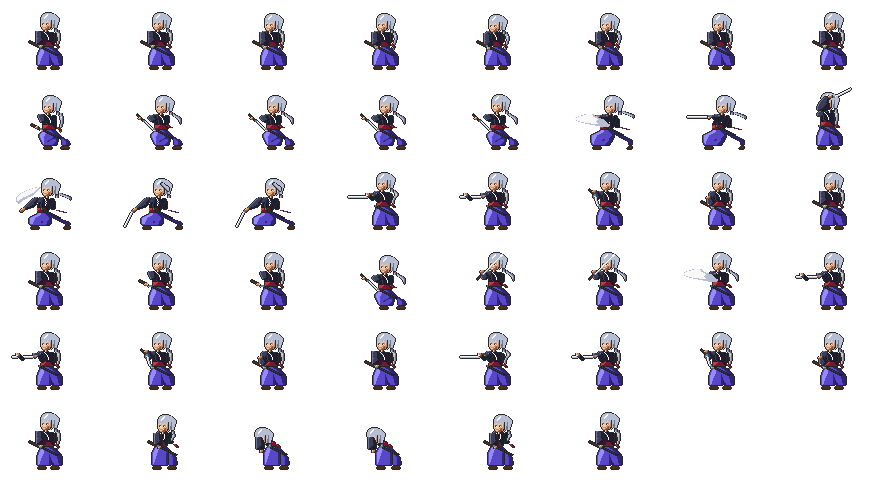
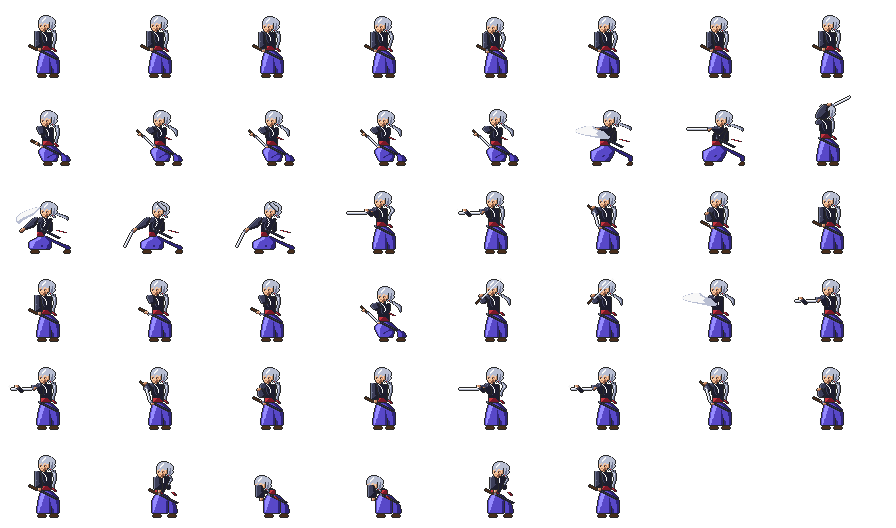
Samurai: slimmer and taller (~65 px) at-rest parts — smaller head, long narrow torso, slim sleeve, long even hakama; dot eyes
Claude-Session: https://claude.ai/code/session_0156S23pwVB8PAo3CNfbv2Nz

diff --git a/tools/hand/samurai/parts.py b/tools/hand/samurai/parts.py
@@ -19,27 +19,24 @@ def _check(part, name):
 # ---------------------------------------------------------------- HEAD (20 wide, 20 tall)
 # 3/4 face: nose at the left edge, near eye 'oH', far eye 'oH', brows 'z', bangs in three points,
 # long side lock in front of the ear. The neck base is at local (5,19); the hair tie at (15,17).
-HEAD = _check([
-    "?????ooooooo????????",
-    "???oohhhhhhhoo??????",
-    "??ohhhhHhhhhhhho????",
-    "?ohhhhHHhhhhhhhho???",
-    "?ohhhHHhhhhhhhhhho??",
-    "ohhhHHhhhhhhhhhhhho?",
-    "ohhhHhhhhhhhhhhhhhho",
-    "ohhhhhhhhhhhhhhhhhho",
-    "ohhhhhhhhhhohhghhhho",
-    "ohhShhhShhhohhghhhho",
-    "oSShhSShhSsohhghhho?",
-    "oSzzhSzzsSsohhghhho?",
-    "oSoHSSoHsSsohgghhho?",
-    "oSSSSSSsSssohgghho??",
-    "oSsSSSsszssohgghho??",
-    "?oSsssSzzsoohgghho??",
-    "?osSSszzzsoho?oooo??",
-    "??osszzzooho??oRgo??",
-    "???ooSzo?o????ohgo??",
-    "???ooSzo??????ohgo??",
+HEAD = _check([                 # 18 wide x 17 tall. neck base at local (5,16); hair tie at (13,14)
+    "?????oooooo???????",
+    "???oohhhhhhoo?????",
+    "??ohhhhHhhhhhho???",
+    "?ohhhhHHhhhhhhho??",
+    "?ohhhHHhhhhhhhhho?",
+    "ohhhHHhhhhhhhhhhho",
+    "ohhhHhhhhhhhhhhhho",
+    "ohhhhhhhhhhohhghho",
+    "ohhShhSShhhohhghho",
+    "oSShhSShSSsohhgho?",
+    "oSzzhSzzsSsohgghho",
+    "oSoSSSoSsSsohgghho",
+    "oSSSSSssSssohggho?",
+    "?oSssSzzsoohggho??",
+    "?osSSzzzsohoRgo???",
+    "??osszzoooooohgo??",
+    "???ooSzo?????ogo??",
 ], "HEAD")
 HEAD_DOWN = HEAD
 
@@ -157,78 +154,90 @@ TAIL_SETTLE = _check([          # after the cut: the tail falls back to hanging,
 
 # ---------------------------------------------------------------- TORSO (19 wide, 16 tall)
 # shoulders on row 0, the neck 's' at x 9, the lapel 'H' crossing, obi (sash) rows 11-14 with its knot
-TORSO = _check([
-    "??oggccHks?oo??????",
-    "?ogcccckHkkkk?oooo?",
-    "ogccccckkHkkkkkkkko",
-    "ogccccckkkHkkkkkkko",
-    "ogcccckckkkHkkkkkko",
-    "?ooockkckkkHkkkkkko",
-    "????okkckkkkHkkkkko",
-    "????okkckkkkHkkkkko",
-    "????okkckkkkHkkkkko",
-    "????okkkckkkkkkkkko",
-    "????okkkkckkkkkkkko",
-    "????oRRRRRrrrrkkkko",
-    "????oRRRRrrrrrrkkko",
-    "????oRRRrrrrrrrrkko",
-    "????oRrrrrrrrrrrrko",
-    "?????oooooooooooooo",
+TORSO = _check([               # 17 wide x 20 tall: narrow shoulders, long waist; the neck 's' at x 8; obi rows 15-18
+    "??oggcHks?oo?????",
+    "?ogccckHkkkk?ooo?",
+    "ogccccckHkkkkkkko",
+    "ogccccckkHkkkkkko",
+    "ogcccckckkHkkkkko",
+    "?ooockkckkHkkkkko",
+    "????okkckkkHkkkko",
+    "????okkckkkHkkkko",
+    "????okkckkkHkkkko",
+    "????okkkckkHkkkko",
+    "????okkkckkkkkkko",
+    "????okkkkckkkkkko",
+    "?????okkkkkkkkkko",
+    "?????okkkkkkkkkko",
+    "?????okkkkkkkkkko",
+    "?????oRRRRrrrkkko",
+    "?????oRRRrrrrrkko",
+    "?????oRRrrrrrrrko",
+    "?????oRrrrrrrrrro",
+    "??????ooooooooooo",
 ], "TORSO")
 # far sleeve, hanging behind the torso (stamped first)
 FAR_SLEEVE = _check([
-    "?ookkko??",
-    "?okkkkko?",
-    "?okkkkkko",
-    "??okkkkko",
-    "??okkkkko",
-    "??okkkkko",
-    "??okkkkko",
-    "??okkkkko",
-    "???okkkko",
-    "???okkkko",
-    "????oooo?",
+    "?ookko??",
+    "?okkkko?",
+    "?okkkkko",
+    "??okkkko",
+    "??okkkko",
+    "??okkkko",
+    "??okkkko",
+    "??okkkko",
+    "??okkkko",
+    "??okkkko",
+    "???okkko",
+    "???okkko",
+    "????ooo?",
 ], "FAR_SLEEVE")
 
 # ---------------------------------------------------------------- NEAR ARM variants
 # origin = the near shoulder (top-left of the sleeve), i.e. torso local (-1, 0)
-ARM_REST = _check([             # hanging; the hand comes out of the bell sleeve at the hilt
-    "oggccko????",
-    "ogccccko???",
-    "ogccccko???",
-    "ogcccckko??",
-    "ogcccckko??",
-    "ogcccckko??",
-    "ogcccckkko?",
-    "oggccckkko?",
-    "ogccccckkko",
-    "ogcccckkkko",
-    "ogccckkkkko",
-    "ogcckkkkkko",
-    "ogkkkkkkkko",
-    "ooooookkooo",
-    "????oSsso??",
-    "????oSszo??",
-    "????ozzo???",
+ARM_REST = _check([             # a slim hanging sleeve, bell at the wrist, the hand at the hilt
+    "oggcko???",
+    "ogcccko??",
+    "ogcccko??",
+    "ogcccko??",
+    "ogccckko?",
+    "ogccckko?",
+    "ogccckko?",
+    "ogccckko?",
+    "ogccckko?",
+    "oggcckko?",
+    "ogccckkko",
+    "ogccckkko",
+    "ogcccckko",
+    "ogccckkko",
+    "ogcckkkko",
+    "ogkkkkkko",
+    "ooookkooo",
+    "???oSsso?",
+    "???oSszo?",
+    "???ozzo??",
 ], "ARM_REST")
-ARM_REST_SWING = _check([       # idle: the sleeve swings a pixel forward
-    "oggccko????",
-    "ogccccko???",
-    "ogccccko???",
-    "ogcccckko??",
-    "ogcccckko??",
-    "ogcccckko??",
-    "ogcccckkko?",
-    "oggccckkko?",
-    "ogccccckkko",
-    "ogcccckkkko",
-    "ogccckkkkko",
-    "ogcckkkkkko",
-    "ogkkkkkkko?",
-    "oooookkooo?",
-    "???oSsso???",
-    "???oSszo???",
-    "???ozzo????",
+ARM_REST_SWING = _check([
+    "oggcko???",
+    "ogcccko??",
+    "ogcccko??",
+    "ogcccko??",
+    "ogccckko?",
+    "ogccckko?",
+    "ogccckko?",
+    "ogccckko?",
+    "ogccckko?",
+    "oggcckko?",
+    "ogccckkko",
+    "ogccckkko",
+    "ogcccckko",
+    "ogccckkko",
+    "ogcckkkko",
+    "ogkkkkko?",
+    "oookkooo?",
+    "??oSsso??",
+    "??oSszo??",
+    "??ozzo???",
 ], "ARM_REST_SWING")
 ARM_GRIP = _check([             # elbow out, forearm across the belly to the hilt (both hands on it)
     "?oggccko???",
@@ -355,31 +364,35 @@ ARM_BOW = _check([              # hanging straight, hand flat on the thigh
 # ---------------------------------------------------------------- LEGS variants (hakama + shoes)
 # origin = waist top-left; the obi bottom row overlaps row 0. The shoes sit on the last rows.
 # Pleats: 'n' fold lines down the front of each leg; 'I' highlight band on the lit front leg.
-LEGS_STANCE = _check([         # upright at rest: feet under the shoulders, both hakama legs full and even, pleats down the front
-    "?????ooiIIiiinoo???????????",
-    "????oiIIIiiiinnnoo?????????",
-    "???oiIIIIiiiiinnnnoo???????",
-    "???oiIIIIiiiiiiinnnno??????",
-    "??oiIIIIiiiiiiiiinnnno?????",
-    "??oiIIIIiiiiiiiiiinnnno????",
-    "?oiIIIIIiiiiiiiiiiinnnno???",
-    "?oiIIIIIiiiiiiiiiiinnnnno??",
-    "?oiIIIIiiiiiiniiiiiinnnnno?",
-    "oiIIIIIiiiiiiniiiiiinnnnno?",
-    "oiIIIIiiiiiiiniiiiiiinnnnno",
-    "oiIIIIiiiiiiinniiiiiinnnnno",
-    "oiIIIiiiiiiiinniiiiiinnnnno",
-    "oiIIIiiiiiiiinniiiiiiinnnno",
-    "oiIIIiiiiiiiinnoiiiiiinnnno",
-    "oiIIiiiiiiiiinnoiiiiiinnnno",
-    "oiIIiiiiiiiiinnoniiiiinnnno",
-    "oiIIiiiiiiiiinnonniiiiinnno",
-    "oiIiiiiiiiiiinnonniiiiinnno",
-    "oooooooooooooooooooooooooo?",
-    "??oLLLlllo?????oLLLlllo????",
-    "?oLLllllllo???oLLllllllo???",
-    "?oLlllllllo???oLlllllllo???",
-    "??ooooooooo????ooooooooo???",
+LEGS_STANCE = _check([         # 24 wide x 28 tall: long hakama, slim, both legs even, pleats down the front
+    "?????ooiIiiinoo?????????",
+    "????oiIIiiiinnnoo???????",
+    "????oiIIIiiiiinnno??????",
+    "???oiIIIIiiiiiinnno?????",
+    "???oiIIIIiiiiiiinnno????",
+    "???oiIIIIiiiiiiinnnno???",
+    "??oiIIIIiiiiiiiiinnnno??",
+    "??oiIIIIiiiiiiiiiinnnno?",
+    "??oiIIIIiiiiiniiiiinnno?",
+    "??oiIIIiiiiiiniiiiinnnno",
+    "?oiIIIIiiiiiiniiiiiinnno",
+    "?oiIIIIiiiiiiniiiiiinnno",
+    "?oiIIIiiiiiiinniiiiinnno",
+    "?oiIIIiiiiiiinniiiiinnno",
+    "?oiIIIiiiiiiinniiiiiinno",
+    "?oiIIIiiiiiiinniiiiiinno",
+    "oiIIIiiiiiiiinnoiiiiinno",
+    "oiIIiiiiiiiiinnoiiiiinno",
+    "oiIIiiiiiiiiinnoniiiinno",
+    "oiIIiiiiiiiiinnonniiinno",
+    "oiIIiiiiiiiiinnonniiinno",
+    "oiIiiiiiiiiiinnonniiinno",
+    "oiIiiiiiiiiiinnonniiinno",
+    "ooooooooooooooooooooooo?",
+    "??oLLLlllo????oLLLlllo??",
+    "?oLLllllllo??oLLllllllo?",
+    "?oLlllllllo??oLlllllllo?",
+    "??ooooooooo???ooooooooo?",
 ], "LEGS_STANCE")
 LEGS_COIL = _check([            # knees sunk, the front foot slid back under the hips: the spring
     "?????ooiIIiiinoo?????????????????",

diff --git a/tools/hand/samurai/frames.py b/tools/hand/samurai/frames.py
@@ -28,9 +28,9 @@ from handkit import Grid, Palette, render, strip, gif, sheet  # noqa: E402
 import parts as P  # noqa: E402
 
 NAME = "samurai"
-BOX_W, BOX_H = 112, 80
-GROUND = 69
-ORIGIN = (56, 70)
+BOX_W, BOX_H = 112, 88
+GROUND = 77
+ORIGIN = (56, 78)
 STANCE_X = 36            # left edge of the stance legs in the box
 
 PAL = Palette(NAME, {
@@ -129,15 +129,15 @@ class Fig:
         self.ty = self.ly - (len(torso) - 1) + torso_dy
         self.nx = self.tx + torso[0].index("s")      # the neck pixel on the torso's top row
         self.ny = self.ty
-        self.hx, self.hy = self.nx - 5, self.ny - 19     # head: neck base at local (5,19)
-        self.tiex, self.tiey = self.hx + 15, self.hy + 17  # the hair tie
+        self.hx, self.hy = self.nx - 5, self.ny - 16     # head: neck base at local (5,16)
+        self.tiex, self.tiey = self.hx + 13, self.hy + 14  # the hair tie
 
     def saya(self, mouth=None, part=None):
         mx, my = mouth or self.mouth()
         stamp(self.g, mx - 1, my - 1, part or P.SAYA)
 
     def far_sleeve(self, dx=0, dy=0, part=None):
-        stamp(self.g, self.tx + 12 + dx, self.ty + 1 + dy, part or P.FAR_SLEEVE)
+        stamp(self.g, self.tx + 10 + dx, self.ty + 1 + dy, part or P.FAR_SLEEVE)
 
     def tail(self, part, dx=0, dy=0):
         stamp(self.g, self.tiex + dx, self.tiey + 1 + dy, part)
@@ -156,7 +156,7 @@ class Fig:
 
     def mouth(self):
         """the saya mouth: just in front of the near hip under the obi"""
-        return (self.tx + 3, self.ty + 15)
+        return (self.tx + 4, self.ty + 19)
 
     def hilt_sheathed(self, n=4):
         mx, my = self.mouth()
@@ -164,7 +164,7 @@ class Fig:
         hilt_poly(self.g, mx - 2, my - 1, mx - 2 - 2 * n, my - 1 - n)
 
 
-OBI_STANCE = [(18, 13, "oRro"), (19, 14, "oRro"), (20, 15, "orro"), (21, 16, "oro")]
+OBI_STANCE = [(16, 17, "oRro"), (17, 18, "oRro"), (18, 19, "orro"), (19, 20, "oro")]
 OBI_LUNGE = [(19, 13, "oRro"), (22, 14, "oRrro"), (26, 15, "orro")]
 
 
@@ -177,7 +177,7 @@ def stance(bob=0, sway=0):
     f.saya()
     f.arm(P.ARM_REST_SWING if sway else P.ARM_REST, dy=bob)
     f.hilt_sheathed()
-    f.g.put(f.ty + 15 + bob, f.tx + 2, "oSsso"); f.g.put(f.ty + 16 + bob, f.tx + 2, "ozzzo")   # the near hand resting on the hilt
+    f.g.put(f.ty + 18 + bob, f.tx + 2, "oSsso"); f.g.put(f.ty + 19 + bob, f.tx + 2, "ozzzo")   # the near hand resting on the hilt
     f.obi_tails(OBI_STANCE)
     return f.g.tidy()
 
